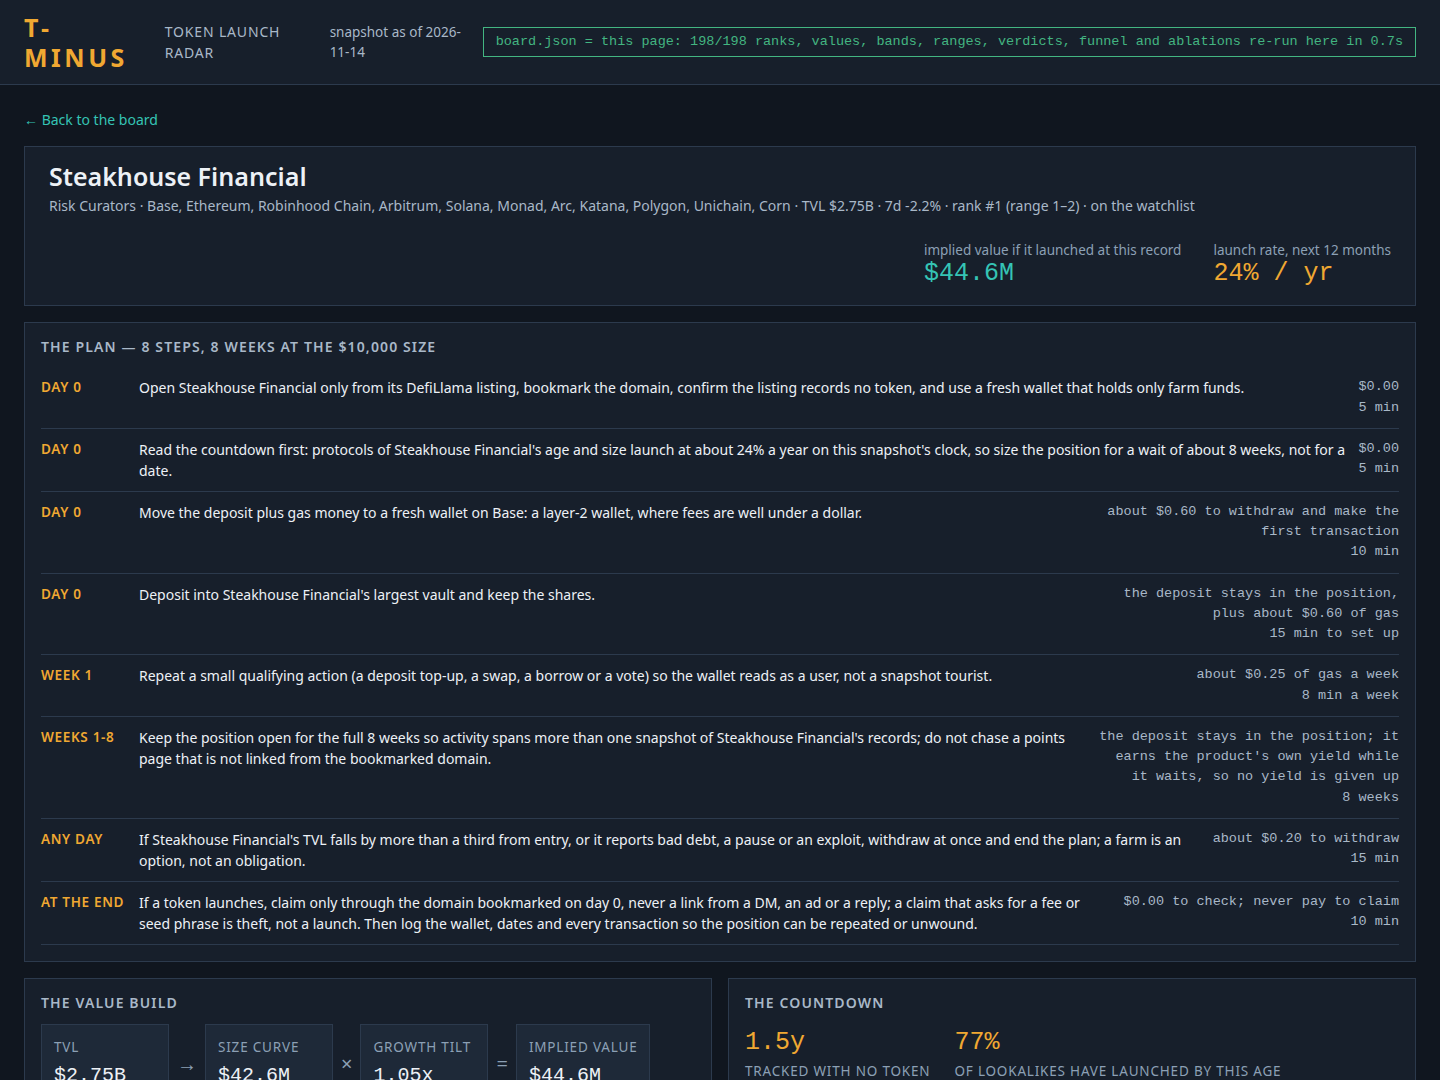
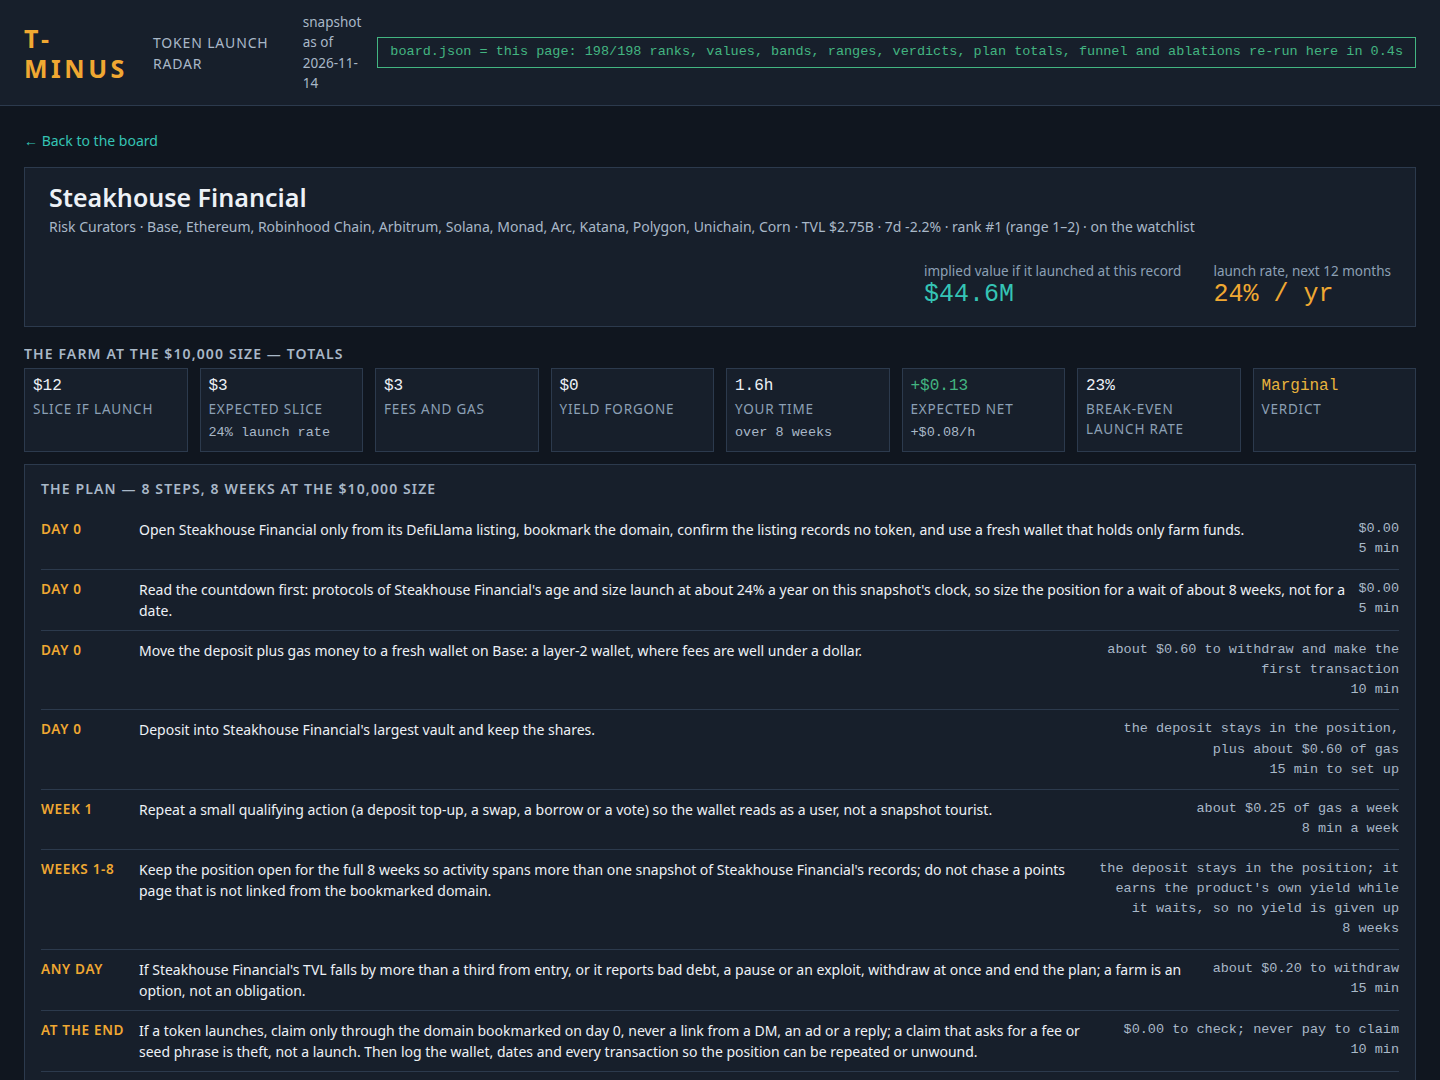
Totals round: detail view gains the $10K plan totals strip
The confirmation panel's one recurring PREMINT win was criterion 3's
detail totals strip. The detail view now opens with an 8-tile strip at
the $10,000 size (slice if launch, expected slice at the launch rate,
fees and gas, yield forgone, your time, expected net with per-hour sub,
break-even launch rate, verdict) rendered from the same shipped econ
block the farm table prints — display-only, models untouched,
board.json/data.js md5 unchanged.

verify() now compares every econ field of the refit against the shipped
rows at both deposit sizes, so the chip covers the strip's statistics;
the independent Python audit recomputes the detail subject's econ from
the snapshot and checks all 8 rendered tiles (60/60 PASS). Plan-step
padding trimmed 10px -> 9px so all 8 steps stay in the detail frame.

diff --git a/dashboard/app.js b/dashboard/app.js
@@ -61,7 +61,7 @@ const round2 = (n) => Math.round((n + Number.EPSILON) * 100) / 100;
 function farmEcon(p, value, age, dep, hz) {
   const weeks = weeksFor(age), gas = GAS[chainClass(p)], slice = T.farm.airdrop_share * value * dep / (dep + p.tvl_usd), costs = gas.setup + gas.weekly * weeks + gas.claim, forgone = YB.has(p.category ?? '') ? 0 : round2(dep * T.farm.forgone_apr * weeks / 52), hours = (T.farm.minutes.setup + T.farm.minutes.weekly * weeks + T.farm.minutes.claim) / 60, breakeven = slice > 0 ? (costs + forgone) / slice : Infinity, expSlice = hz * slice, expNet = expSlice - costs - forgone, expHr = expNet / hours;
   const verdict = expNet > 0 && expHr >= T.farm.worth_hour_floor ? 'Worth farming' : expNet > 0 || breakeven <= 2 * hz ? 'Marginal' : 'Skip';
-  return { slice, costs, forgone, hours, breakeven, expNet, verdict };
+  return { slice, costs, forgone, hours, breakeven, expSlice, expNet, expHr, verdict };
 }
 
 /* ---------- evidence: the headline numbers, re-derived from the shipped data ---------- */
@@ -147,7 +147,11 @@ function verify() {
     const range = [nearRank(rr.get(p.slug) ?? [], .1), nearRank(rr.get(p.slug) ?? [], .9)];
     if (JSON.stringify(range) !== JSON.stringify(p.rank_range)) { bad = 'rank range: ' + p.slug; break; }
     const hz = hazard12(beta, p.tvl_usd, p.age_days ?? UNKNOWN_AGE, p.chains.length);
-    for (const dep of [1000, 10000]) { const e = farmEcon(p, v, p.age_days, dep, hz); if (e.verdict !== p.econ[String(dep)].verdict || round2(e.expNet) !== p.econ[String(dep)].expected_net) { bad = 'verdict: ' + p.slug; break; } }
+    // every econ field is compared, not just the verdict: the detail totals
+    // strip prints slice, expected slice, costs, forgone, hours, break-even
+    // and expected net per hour straight from this block.
+    for (const dep of [1000, 10000]) { const e = farmEcon(p, v, p.age_days, dep, hz), s = p.econ[String(dep)];
+      if (e.verdict !== s.verdict || round2(e.expNet) !== s.expected_net || round2(e.expSlice) !== s.expected_slice || round2(e.slice) !== s.slice || round2(e.costs) !== s.costs || e.forgone !== s.forgone || Math.abs(e.hours - s.hours) > 1e-9 || round2(e.expHr) !== s.expected_net_hour || (s.breakeven === null ? isFinite(e.breakeven) : Math.abs(e.breakeven - s.breakeven) > 1e-4)) { bad = 'verdict: ' + p.slug; break; } }
     if (bad) break;
   }
   // evidence layer: the clock ablation must reproduce the shipped out-of-sample
@@ -159,7 +163,7 @@ function verify() {
   if (!bad && EV && JSON.stringify(ev2) !== JSON.stringify(EV)) bad = 'evidence render';
   const secs = ((performance.now() - t0) / 1000).toFixed(1), chip = $('chip');
   if (bad) { chip.textContent = 're-run mismatch — ' + bad; chip.className = 'chip chip-bad'; }
-  else { chip.textContent = `board.json = this page: ${rows.length}/${rows.length} ranks, values, bands, ranges, verdicts, funnel and ablations re-run here in ${secs}s`; chip.className = 'chip chip-ok'; }
+  else { chip.textContent = `board.json = this page: ${rows.length}/${rows.length} ranks, values, bands, ranges, verdicts, plan totals, funnel and ablations re-run here in ${secs}s`; chip.className = 'chip chip-ok'; }
 }
 
 /* ---------- board UI ---------- */
@@ -268,10 +272,16 @@ function renderDetail(slug) {
   const f = r.model, band = r.band;
   const factor = (cap, val) => `<div class="factor"><div class="cap">${cap}</div><div class="val">${val}</div></div>`;
   const depRow = (dep) => { const e = r.econ[String(dep)]; return `<tr><td>$${dep.toLocaleString()}</td><td>${fmt$(e.slice)}</td><td>${fmt$(e.expected_slice)}</td><td>${fmt$(e.costs)}</td><td>${fmt$(e.forgone)}</td><td class="${e.expected_net >= 0 ? 'pos' : 'neg'}">${e.expected_net >= 0 ? '+' : '−'}$${fmtN(Math.abs(e.expected_net))}</td><td>${e.expected_net >= 0 ? '+' : '−'}$${fmtN(Math.abs(e.expected_net_hour))}</td><td>${e.breakeven === null || !isFinite(e.breakeven) ? '—' : Math.round(e.breakeven * 100) + '%'}</td><td><span class="verdict ${vClass(e.verdict)}">${esc(e.verdict)}</span></td></tr>`; };
+  const e10 = r.econ['10000'];
+  const signed$ = (v) => `${v >= 0 ? '+' : '−'}$${fmtN(Math.abs(v))}`;
+  const tile = (val, cap, sub, cls) => `<div class="stat"><div class="v${cls ? ' ' + cls : ''}">${val}</div><div class="cap">${cap}</div>${sub ? `<div class="sub">${sub}</div>` : ''}</div>`;
   $('view-detail').innerHTML = `
     <a class="backlink" href="#/">← Back to the board</a>
     <div class="d-head"><div><h1>${esc(r.name)}</h1><div class="sub">${esc(r.category ?? 'Uncategorised')} · ${esc(r.chains.join(', ') || 'no chain listed')} · TVL ${fmt$(r.tvl_usd)} · 7d ${r.change_7d === null ? '—' : (r.change_7d >= 0 ? '+' : '') + r.change_7d.toFixed(1) + '%'} · rank #${r.rank} (range ${r.rank_range[0]}–${r.rank_range[1]})${r.watchlist ? ' · on the watchlist' : ''}</div></div>
     <div class="d-big"><div><div class="cap">implied value if it launched at this record</div><div class="v">${fmt$(r.implied_value_usd)}</div></div><div><div class="cap">launch rate, next 12 months</div><div class="h">${Math.round(r.clock.hazard12 * 100)}% / yr</div></div></div></div>
+    <div class="totals-h">The farm at the $10,000 size — totals</div><div class="totals" id="totalsStrip">
+      ${tile(fmt$(e10.slice), 'Slice if launch')}${tile(fmt$(e10.expected_slice), 'Expected slice', `${Math.round(r.clock.hazard12 * 100)}% launch rate`)}${tile(fmt$(e10.costs), 'Fees and gas')}${tile(fmt$(e10.forgone), 'Yield forgone')}${tile(e10.hours.toFixed(1) + 'h', 'Your time', `over ${e10.weeks} weeks`)}${tile(signed$(e10.expected_net), 'Expected net', signed$(e10.expected_net_hour) + '/h', e10.expected_net >= 0 ? 'pos' : 'neg')}${tile(e10.breakeven === null || !isFinite(e10.breakeven) ? '—' : Math.round(e10.breakeven * 100) + '%', 'Break-even launch rate')}${tile(esc(e10.verdict), 'Verdict', '', vClass(e10.verdict))}
+    </div>
     <div class="panel plan-panel"><h2>The plan — ${r.steps.length} steps, ${r.econ['10000'].weeks} weeks at the $10,000 size</h2><ol class="steps">
       ${r.steps.map(s => `<li><span class="when">${esc(s.when)}</span><span class="txt">${esc(s.text)}</span><span class="ct">${esc(s.cost)}<br>${esc(s.time)}</span></li>`).join('')}</ol></div>
     <div class="d-grid">

diff --git a/dashboard/app.css b/dashboard/app.css
@@ -58,6 +58,13 @@ main{padding:var(--s5);max-width:1560px;margin:0 auto}
 .stat .v.teal{color:var(--teal)} .stat .v.amber{color:var(--amber)}
 .stat .cap{color:var(--ink3);font-size:var(--fs-xs);text-transform:uppercase;letter-spacing:.06em;margin-top:var(--s1)}
 .stat .sub{color:var(--ink2);font-size:var(--fs-xs);font-family:var(--mono);margin-top:var(--s1)}
+
+/* detail totals strip: the $10K farm at a glance, above the plan */
+.totals-h{font-size:var(--fs-s);text-transform:uppercase;letter-spacing:.08em;color:var(--ink2);font-weight:600;margin-bottom:var(--s1)}
+.totals{display:grid;grid-template-columns:repeat(8,1fr);gap:var(--s3);margin-bottom:var(--s3)}
+.totals .stat{padding:var(--s2)}
+.totals .v{font-size:var(--fs-m)}
+.totals .v.pos,.totals .v.go{color:var(--go)} .totals .v.neg,.totals .v.skip{color:var(--skip)} .totals .v.warn{color:var(--warn)}
 .evidence{display:grid;grid-template-columns:1.1fr 1fr 1.3fr;gap:var(--s4);margin-bottom:var(--s4)}
 .evidence .panel{padding:var(--s3) var(--s4)}
 .crit{list-style:none;margin:0;padding:0;color:var(--ink2);font-size:var(--fs-xs)}
@@ -142,7 +149,7 @@ table.data td:first-child,table.data th:first-child{text-align:left}
 .steps{list-style:none;margin:0;padding:0}
 .plan-panel{margin-bottom:var(--s4)}
 .plan-panel h2{font-size:var(--fs-s);text-transform:uppercase;letter-spacing:.08em;color:var(--ink2);margin-bottom:var(--s3)}
-.plan-panel .steps li{padding:10px 0}
+.plan-panel .steps li{padding:9px 0}
 .steps li{display:grid;grid-template-columns:86px 1fr auto;gap:var(--s3);padding:var(--s3) 0;border-bottom:1px solid var(--line)}
 .steps .when{color:var(--amber);font-weight:600;font-size:var(--fs-xs);text-transform:uppercase;letter-spacing:.05em}
 .steps .txt{color:var(--ink)}
@@ -155,5 +162,5 @@ table.data td:first-child,table.data th:first-child{text-align:left}
 .listhead{display:flex;justify-content:space-between;align-items:baseline;margin-bottom:var(--s3)}
 .listhead h1{font-size:var(--fs-xl)}
 .foot{padding:var(--s4) var(--s5);color:var(--ink3);font-size:var(--fs-xs);border-top:1px solid var(--line);margin-top:var(--s5)}
-@media (max-width:1100px){.hero{grid-template-columns:1fr}.d-grid{grid-template-columns:1fr}.method-grid{grid-template-columns:1fr}.statstrip{grid-template-columns:repeat(2,1fr)}.evidence{grid-template-columns:1fr}}
+@media (max-width:1100px){.hero{grid-template-columns:1fr}.d-grid{grid-template-columns:1fr}.method-grid{grid-template-columns:1fr}.statstrip{grid-template-columns:repeat(2,1fr)}.totals{grid-template-columns:repeat(4,1fr)}.evidence{grid-template-columns:1fr}}
 @media (prefers-reduced-motion:reduce){*{transition:none!important;animation:none!important}}
